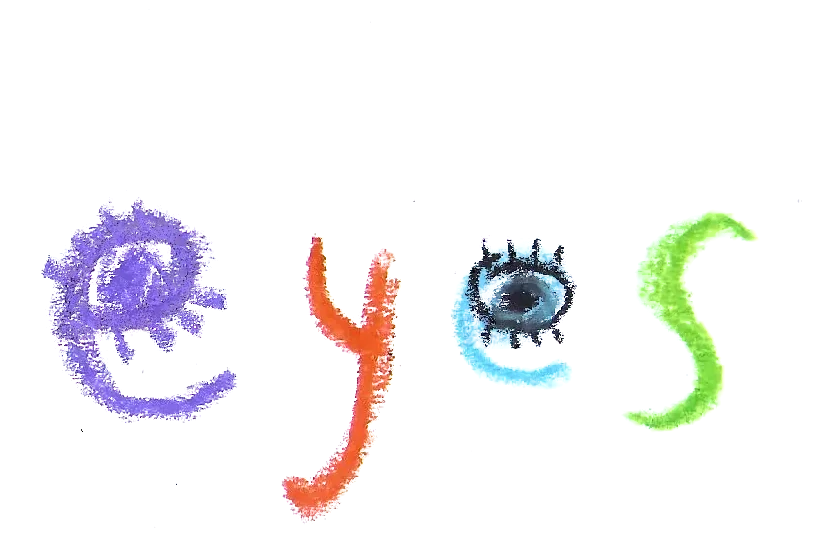
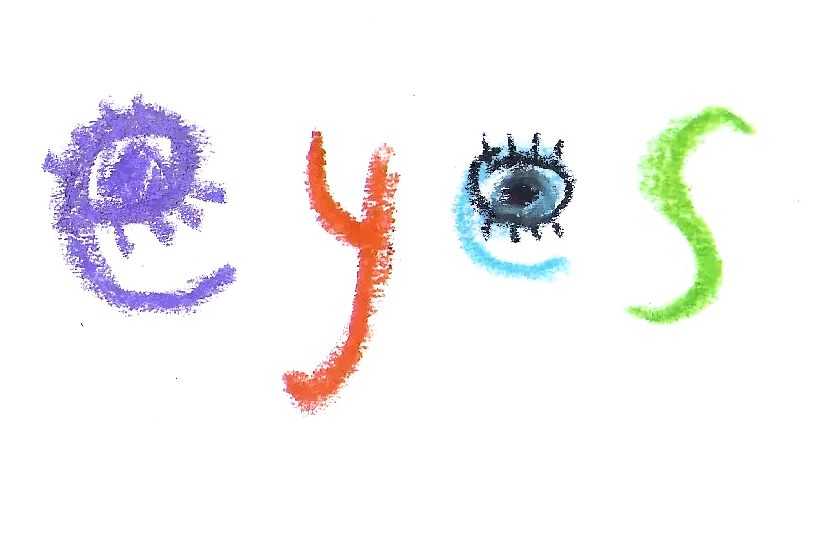
img align-self: center;

diff --git a/style.css b/style.css
@@ -24,6 +24,7 @@ body {
 img {
   max-width: 30%;
   height: auto;
+  align-self: center;
 }
 
 a>img {
@@ -35,26 +36,20 @@ a>img {
   display: flex;
   flex-direction: row;
   justify-content: center;
-  align-items: baseline;
+  align-items: flex-end;
   margin-top: -0.5%;
   max-width: 90%;
   margin: 0 auto;
 }
 
-.flowers {
-  max-width: 30%
+.title div {
+  max-width: 100%;
+  padding: 2%;
 }
 
-.in_your {
-  max-width: 5%;
-}
-
-.eyes {
-  max-width: 20%;
-}
-
-.title>img {
+.title img {
   padding: 1.5%;
+  max-width: 100%;
 }
 
 .llinks {
@@ -198,7 +193,6 @@ a>img {
 
 /* VIDEO PAGE */
 .dis_title.photo {
-  display: flex;
   max-width: 80%;
   margin: 0 auto;
 }
@@ -244,7 +238,7 @@ a>img {
 
   .title>.eyes {
     max-width: 60%;
-    margin-top: -10%;
+    margin-top: -5%;
   }
 
   .llinks {

diff --git a/index.html b/index.html
@@ -12,9 +12,9 @@
   <div class="scroll_snap">
   <section class="pc-snap">
   <div class="title">
-    <img class="flowers" src="imgs/flowers.webp" alt="flowers">
-    <img class="in your" src="imgs/in_your.webp" alt="in your">
-    <img class="eyes" src="imgs/eyes.webp" alt="eyes">
+    <div class="flowers"> <img src="imgs/flowers.webp" alt="flowers"> </div>
+    <div class="in your"> <img src="imgs/in_your.webp" alt="in your"> </div>
+    <div class="eyes"> <img src="imgs/eyes.webp" alt="eyes"> </div>
   </div>
   <section class="mob-snap">
   <div class="llinks">

diff --git a/style2.css b/style2.css
@@ -20,6 +20,7 @@ body {
 img {
   max-width: 30%;
   height: auto;
+  align-self: center;
 }
 
 a>img {
